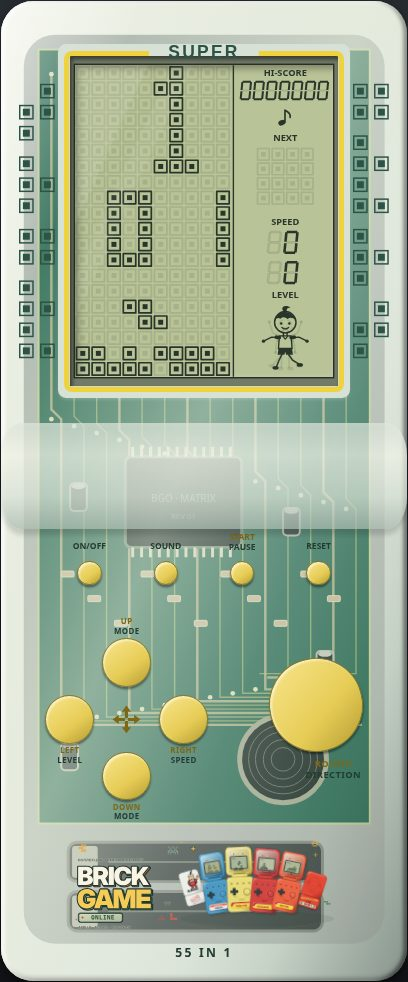
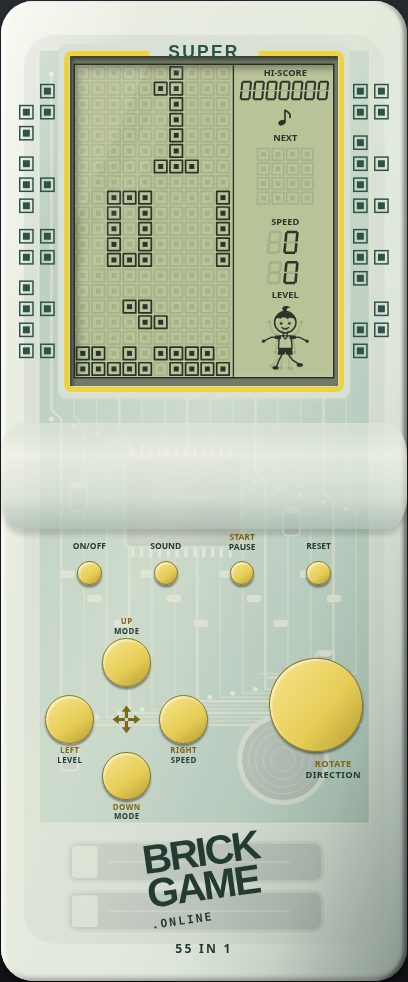
Subdue transparent circuit boards and simplify the printed site wordmark

diff --git a/src/styles.css b/src/styles.css
@@ -4704,13 +4704,14 @@ body[data-chrome='toy'] .arena[data-model='brickgame'][data-compact] { --stage-w
 /* Extra breathing room between the LCD glass and the printed yellow frame. */
 .toy[data-model='brickgame'] .lid__bezel { padding:2.2cqw 1.4cqw; }
 .classic__wordmark { display:flex; flex-direction:column; align-items:center; justify-content:center; right:11cqw; bottom:5cqw; width:78cqw; height:32cqw; gap:1cqw; }
-.classic__site-logo { display:block; width:100%; height:auto; max-height:27cqw; object-fit:contain; }
-.classic__wordmark .classic__count { font:700 3cqw/1.2 system-ui,sans-serif; letter-spacing:.18em; color:var(--classic-print); }
+.classic__site-logo { display:flex; flex-direction:column; align-items:flex-start; font:900 10cqw/.84 Arial,system-ui,sans-serif; letter-spacing:-.06em; color:var(--classic-print); transform:rotate(-8deg); background:none; }
+.classic__site-logo small { font:700 2.8cqw/1.4 ui-monospace,monospace; letter-spacing:.18em; margin-top:1.6cqw; }
+.classic__wordmark .classic__count { margin-top:3cqw; font:700 3cqw/1.2 system-ui,sans-serif; letter-spacing:.18em; color:var(--classic-print); }
 [data-shell='clear'] { --classic-cap:#7e6717; --classic-motif:#2c5446; --tone:#b8bdad; --classic-body:#d8e1d5; --classic-hi:#f0f3e7; --classic-lo:#a9b9ae; --classic-print:#243b31; --classic-border:#a4b6a7; --glass-tint:#eaf0df77; }
 [data-shell='smoke'] { --classic-cap:#efd35a; --classic-motif:#c0d2bc; --tone:#b5bd94; --classic-body:#151b18; --classic-hi:#303a32; --classic-lo:#080d0a; --classic-print:#eef2df; --classic-border:#192a20; --glass-tint:#07110be0; }
 .classic__pcb { position:absolute; inset:1.5%; width:97%; height:97%; opacity:0; pointer-events:none; }
 .classic__glass { display:none; position:absolute; inset:0; border-radius:inherit; pointer-events:none; z-index:1; }
-.toy[data-model='brickgame']:is([data-shell='clear'],[data-shell='smoke']) .classic__pcb { opacity:.9; }
+.toy[data-model='brickgame']:is([data-shell='clear'],[data-shell='smoke']) .classic__pcb { opacity:.24; }
 .toy[data-model='brickgame']:is([data-shell='clear'],[data-shell='smoke']) .classic__glass { display:block; background:linear-gradient(112deg,#ffffff80,transparent 18%,var(--glass-tint) 46%,#ffffff24 65%,transparent 82%,#0003); box-shadow:inset .8cqw .4cqw 1cqw #fff9,inset -.6cqw -.6cqw 1.2cqw #0005; }
 .toy[data-model='brickgame']:is([data-shell='clear'],[data-shell='smoke'])::after { opacity:.72; }
 .toy[data-model='brickgame']:is([data-shell='clear'],[data-shell='smoke']) .base { z-index:2; }

diff --git a/src/app/brickGameModel.ts b/src/app/brickGameModel.ts
@@ -71,7 +71,7 @@ function padCross(): SVGSVGElement {
 /** Site branding distinguishes the universal toy from original hardware replicas. */
 function wordmark(games: number): HTMLElement {
   return h('div',{class:'classic__wordmark','aria-hidden':'true'},
-    h('img',{class:'classic__site-logo',src:`${import.meta.env.BASE_URL}brand/brick-game-online-logo.svg`,alt:'Brick Game Online',width:'1920',height:'760'}),
+    h('div',{class:'classic__site-logo'},h('span',{},'BRICK'),h('span',{},'GAME'),h('small',{},'.ONLINE')),
     h('span',{class:'classic__count'},`${games} IN 1`));
 }
 
@@ -160,7 +160,7 @@ export function brickGameMini(view: View = 'full', shell?: Shell): SVGSVGElement
     svg('rect', { x: '8', y: '10', width: '28', height: '33', fill: '#bac49c' }),
     svg('path', { d: 'M26 11V42M11 38h3v-3h3v3h3v3h-9Z', fill: '#3c4537', stroke: '#3c4537', 'stroke-width': '.4' }),
   );
-  if(transparent&&!screen)root.append(svg('path',{d:'M5 49H39V94H5Z',fill:'#548671',opacity:'.75'}),svg('path',{d:'M7 52V87H34V56M11 55V83H30V59M15 56V79H26V62',fill:'none',stroke:'#b7c595','stroke-width':'.6'}),svg('rect',{x:'17',y:'57',width:'11',height:'8',rx:'1',fill:'#273c33'}));
+  if(transparent&&!screen)root.append(svg('g',{opacity:'.24'},svg('path',{d:'M5 49H39V94H5Z',fill:'#548671',opacity:'.75'}),svg('path',{d:'M7 52V87H34V56M11 55V83H30V59M15 56V79H26V62',fill:'none',stroke:'#b7c595','stroke-width':'.6'}),svg('rect',{x:'17',y:'57',width:'11',height:'8',rx:'1',fill:'#273c33'})));
   if (!screen)
     root.append(
       svg('path', { d: 'M2 46Q22 43 42 46V53Q22 59 2 53Z', fill: ridge }),

diff --git a/tests/smoke/brickgame-ui.spec.ts b/tests/smoke/brickgame-ui.spec.ts
@@ -78,7 +78,8 @@ test('корпус универсального Brick Game: без винтов,
   // Надпись двумя строками под углом и число игр, назначенных приставке сейчас.
   const games = universalGames(validateConfig(defaults)).length;
   await expect(page.locator('.classic__count')).toHaveText(`${games} IN 1`);
-  await expect(page.locator('.classic__site-logo')).toHaveAttribute('src',/brick-game-online-logo.svg$/);
+  await expect(page.locator('.classic__site-logo')).toHaveText('BRICKGAME.ONLINE');
+  await expect(page.locator('.classic__site-logo')).toHaveCSS('background-color','rgba(0, 0, 0, 0)');
   await expect(page.locator('.classic__face')).toHaveCount(0);
   await expect(page.locator('.classic__wordmark')).toHaveCSS('pointer-events', 'none'); // не перекрывает кнопки
 });
@@ -380,7 +381,7 @@ test('clear and smoke shells reveal decorative electronics, without covering con
  await expect(page.locator('.classic__pcb')).toHaveCSS('opacity','0');
  for(const shell of ['clear','smoke']){
   await page.locator(`#shell-picker [data-shell=${shell}]`).click();
-  await expect(page.locator('.classic__pcb')).toHaveCSS('opacity','0.9');
+  await expect(page.locator('.classic__pcb')).toHaveCSS('opacity','0.24');
   await expect(page.locator('.classic__glass')).toHaveCSS('pointer-events','none');
   await expect(page.locator('#game-area')).toHaveAttribute('data-boot','off');
   await page.locator('#base [data-key=sp]').click();
